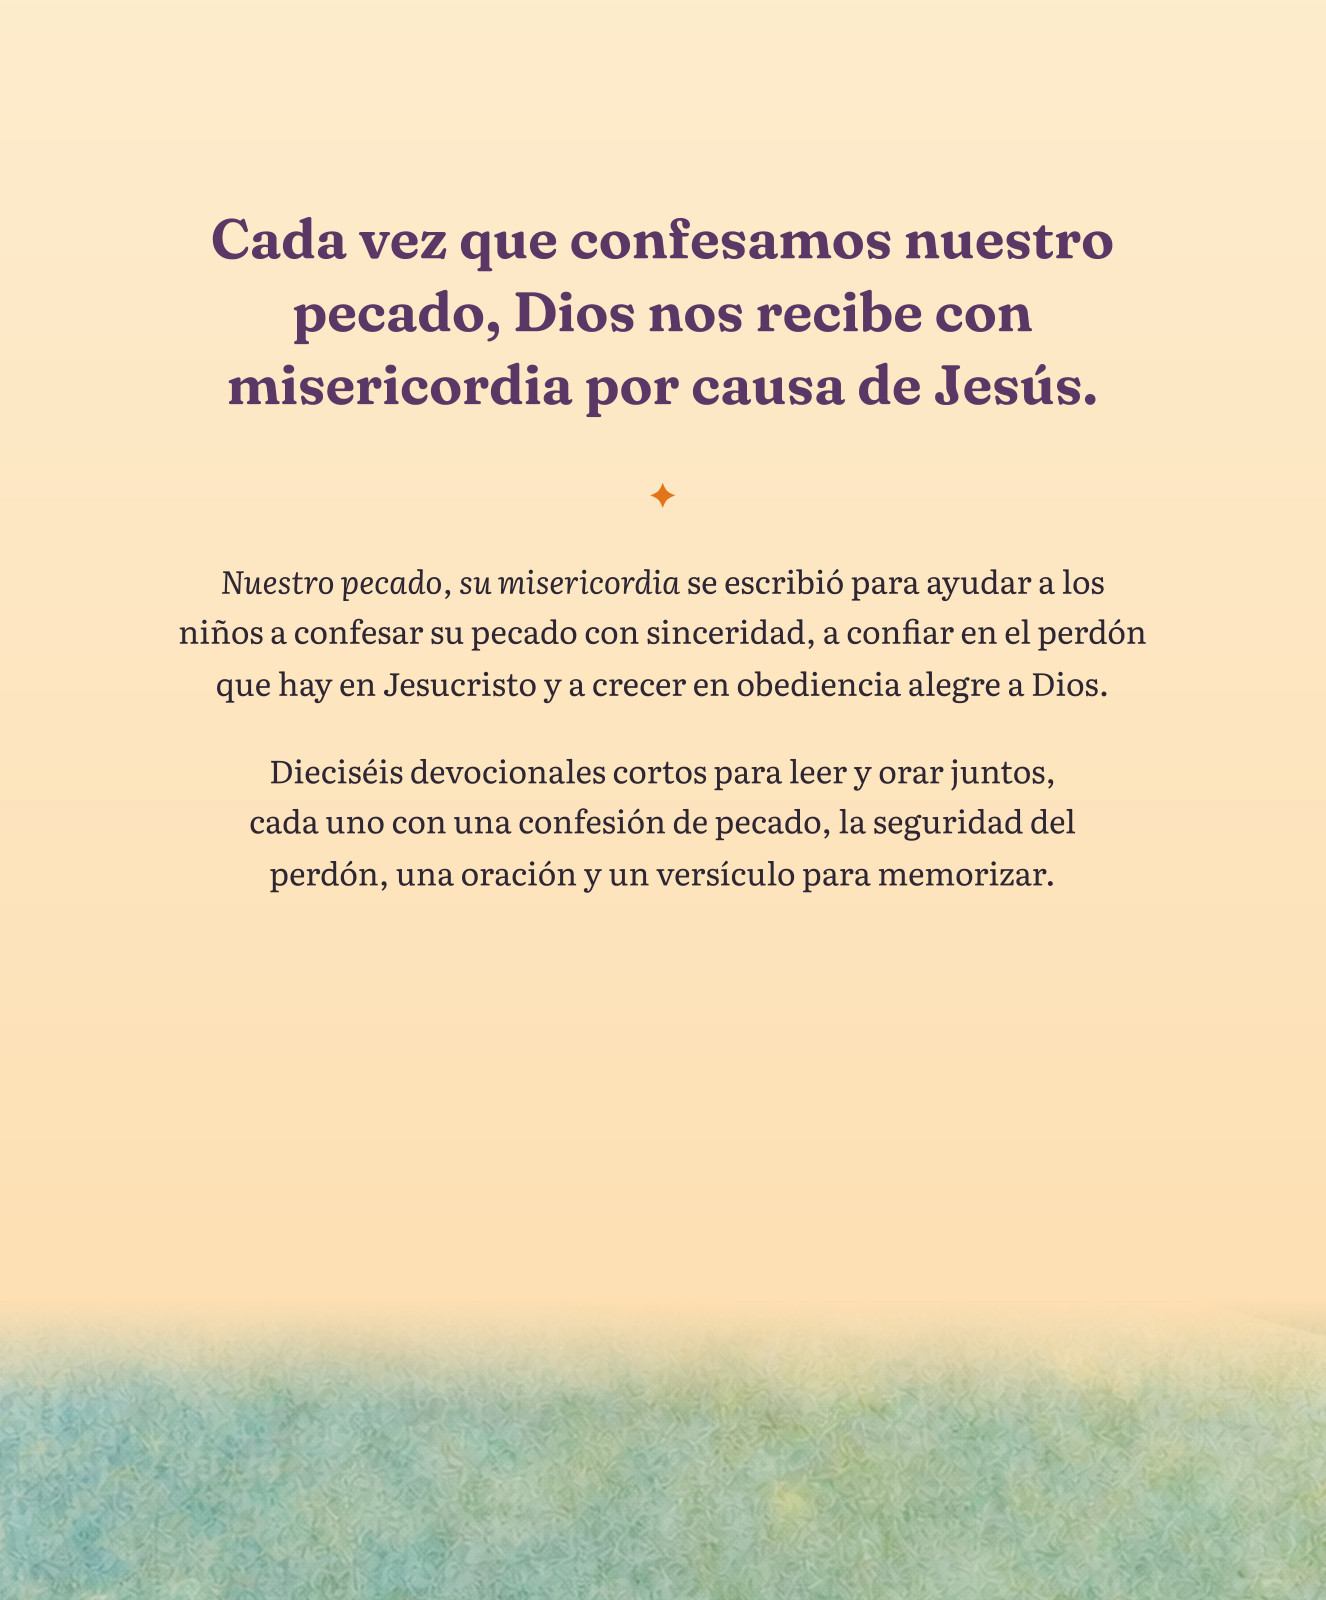
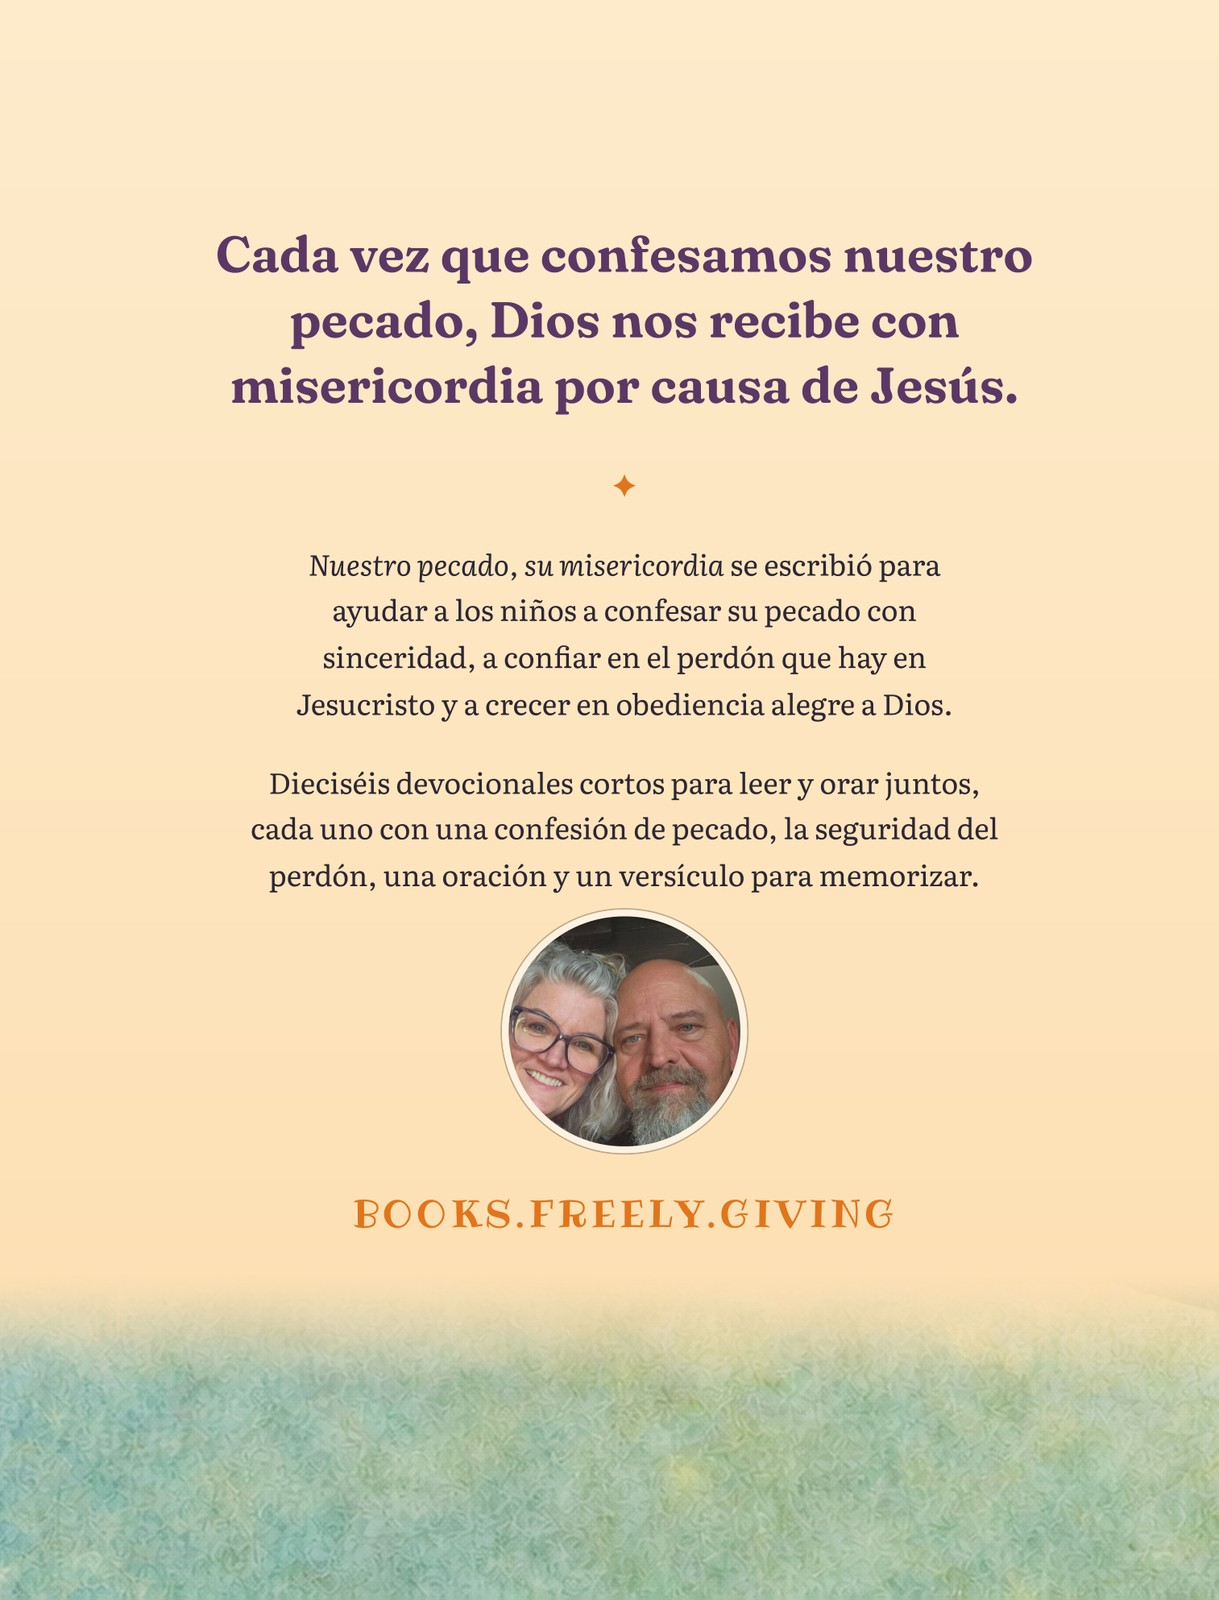
Joe Conkle's books: Joe and his wife in a circle on the back cover (Our Sin, His Mercy and the children's devotions, English and Spanish)

diff --git a/book-tools/README.md b/book-tools/README.md
@@ -12,7 +12,7 @@ delete its `node_modules` and archive it to Proton Drive (`My files/Books`).
 | booklet (in the `make-booklet` skill, `~/.claude/skills/make-booklet/template`) | Blog posts to a 4-48 page saddle-stitch booklet | *On the Election of Infants* (2026-11-13) |
 | `markdown-book/` | A book written in Markdown (chapters/, front/, back/): Michael's books, modern authors | *Meditations on Psalm 119* (2026-10/11) |
 | `scanned-book/` | Reprinting an old book from a scan: OCR text, fixes, spelling decisions, page-by-page scan check, BSB verse notes | *Keeping the Heart* (2026-11-18); also used for Token for Mourners, Spurgeon, Broadus |
-| `author/` | Back-cover circles: Michael (`author-circle.jpg`, made from `author-gray.jpg` by `make-author-circle.py`), Spurgeon (the bearded one from Morning and Evening), Flavel, Broadus | |
+| `author/` | Back-cover circles: Michael (`author-circle.jpg`, made from `author-gray.jpg` by `make-author-circle.py`), Spurgeon (the bearded one from Morning and Evening), Flavel, Broadus, Joe Conkle with his wife (`conkle-circle.jpg`; `conkle-circle-ring.png` has the light ring for dark covers) | |
 
 **`EDITION-RULES.md`** holds the standing decisions for every book (what still goes to Michael, spelling
 defaults, typesetting, covers, publishing). Follow it without asking; add each new answer to it.
